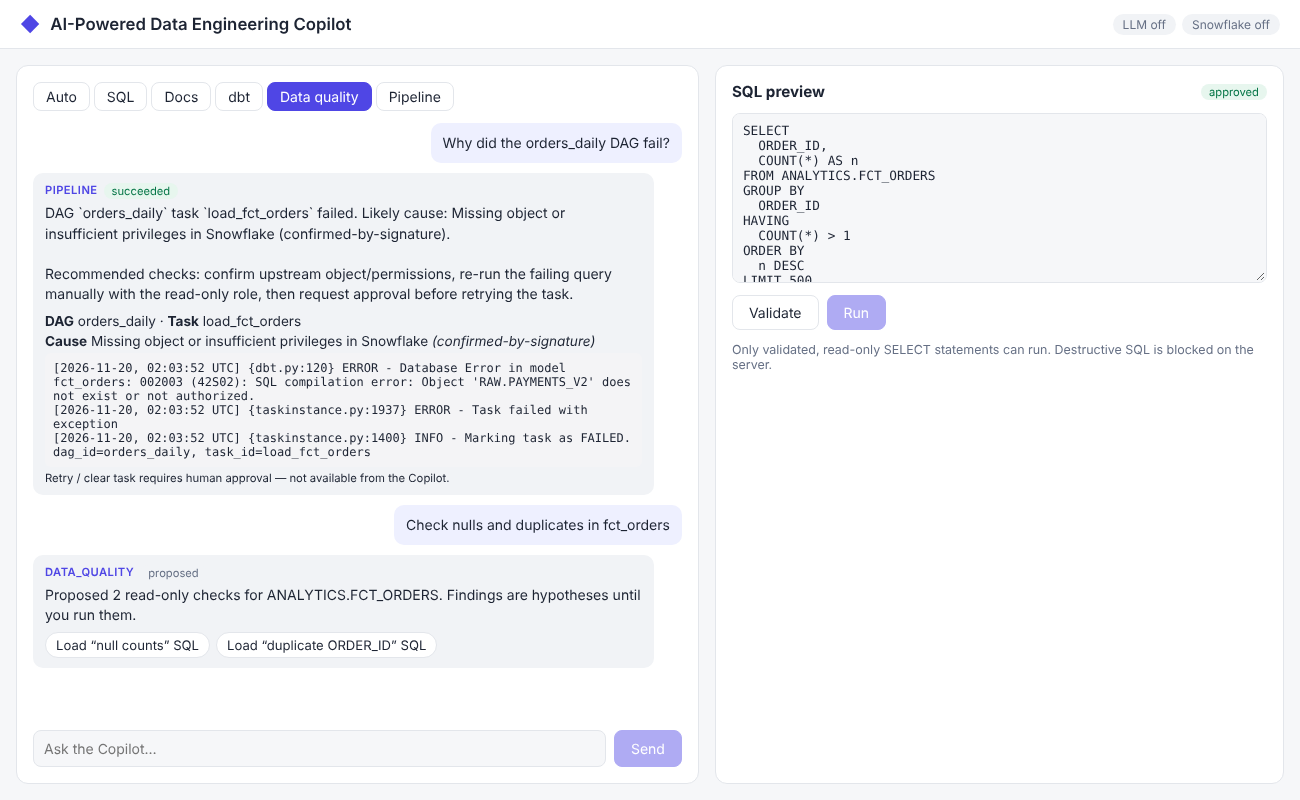
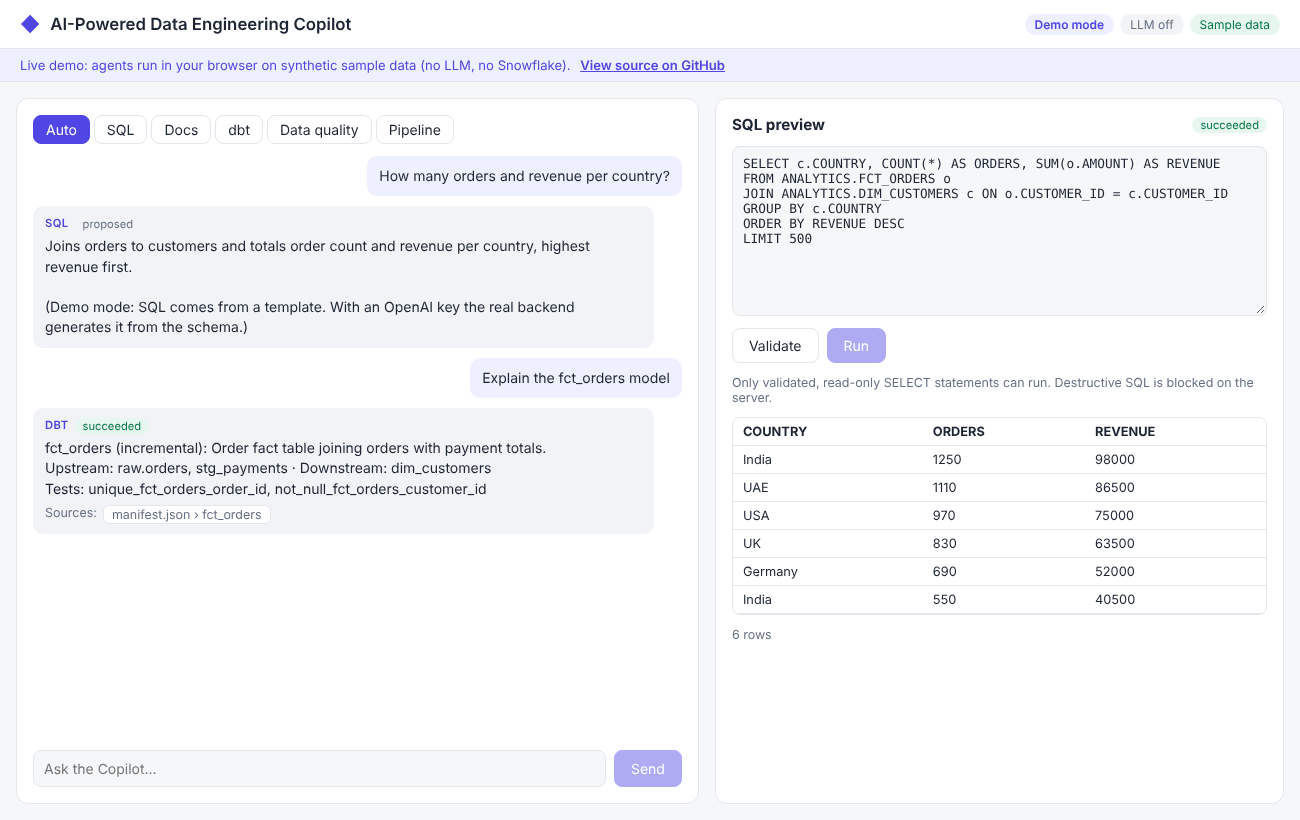
Add live demo mode and GitHub Pages deployment

diff --git a/frontend/src/app/core/demo-backend.ts b/frontend/src/app/core/demo-backend.ts
@@ -1,0 +1,224 @@
+/**
+ * DEMO MODE — an in-browser stand-in for the FastAPI backend.
+ *
+ * Used automatically when the app is hosted on GitHub Pages (or opened with ?demo=1),
+ * so people can click around without running Python. It mirrors the backend's
+ * offline behaviour on the same synthetic sample data. It is NOT the real backend:
+ * no LLM, no Snowflake, and "Run" returns generated sample rows.
+ */
+import { CopilotResponse, Health, Intent, QueryResult, SqlValidation } from './models';
+
+export function isDemoMode(): boolean {
+  if (typeof window === 'undefined') return false;
+  return window.location.hostname.endsWith('github.io') || new URLSearchParams(window.location.search).has('demo');
+}
+
+// ---------- sample data (same as /sample_data) ----------
+const SCHEMA: Record<string, string[]> = {
+  'ANALYTICS.FCT_ORDERS': ['ORDER_ID', 'CUSTOMER_ID', 'ORDER_DATE', 'STATUS', 'AMOUNT'],
+  'ANALYTICS.DIM_CUSTOMERS': ['CUSTOMER_ID', 'CUSTOMER_NAME', 'COUNTRY', 'CREATED_AT'],
+  'STAGING.STG_PAYMENTS': ['PAYMENT_ID', 'ORDER_ID', 'PAYMENT_METHOD', 'AMOUNT'],
+};
+
+const MODELS: Record<string, { desc: string; mat: string; up: string[]; down: string[]; tests: string[] }> = {
+  stg_payments: { desc: 'Cleans raw payments and converts cents to dollars.', mat: 'view', up: ['raw.payments'], down: ['fct_orders'], tests: [] },
+  fct_orders: { desc: 'Order fact table joining orders with payment totals.', mat: 'incremental', up: ['raw.orders', 'stg_payments'], down: ['dim_customers'], tests: ['unique_fct_orders_order_id', 'not_null_fct_orders_customer_id'] },
+  dim_customers: { desc: 'Customer dimension with first/last order dates.', mat: 'table', up: ['raw.customers', 'fct_orders'], down: [], tests: [] },
+};
+
+const DOCS: { source: string; section: string; text: string }[] = [
+  { source: 'orders_pipeline_runbook.md', section: 'Freshness expectations', text: 'ANALYTICS.FCT_ORDERS should contain orders up to the previous day by 03:00 UTC. If freshness is breached, check the load_fct_orders task first.' },
+  { source: 'orders_pipeline_runbook.md', section: 'Missing object errors', text: '"Object does not exist or not authorized" usually means an upstream source was renamed or the dbt role lost SELECT privileges. Confirm with the read-only role before retrying. Retrying or clearing tasks requires approval from the on-call data engineer.' },
+  { source: 'orders_pipeline_runbook.md', section: 'Incremental model behaviour', text: 'fct_orders is incremental on ORDER_DATE. A full refresh is only allowed in a maintenance window with approval from the data platform lead.' },
+  { source: 'data_quality_standards.md', section: 'Primary keys', text: 'Every fact and dimension table must have a unique, non-null primary key. ORDER_ID is the key of FCT_ORDERS; CUSTOMER_ID is the key of DIM_CUSTOMERS.' },
+  { source: 'data_quality_standards.md', section: 'Null thresholds', text: 'Foreign keys such as CUSTOMER_ID in FCT_ORDERS must have zero nulls. Descriptive columns may have up to 1% nulls.' },
+];
+
+export const SAMPLE_LOG = `[2026-11-20, 02:00:03 UTC] {taskinstance.py:1157} INFO - Dependencies all met for dag_id=orders_daily, task_id=load_fct_orders, run_id=scheduled__2026-11-19
+[2026-11-20, 02:00:04 UTC] {dbt.py:88} INFO - Running: dbt run --select fct_orders
+[2026-11-20, 02:03:41 UTC] {dbt.py:120} INFO - 1 of 1 START incremental model ANALYTICS.fct_orders
+[2026-11-20, 02:03:52 UTC] {dbt.py:120} ERROR - Database Error in model fct_orders: 002003 (42S02): SQL compilation error: Object 'RAW.PAYMENTS_V2' does not exist or not authorized.
+[2026-11-20, 02:03:52 UTC] {taskinstance.py:1937} ERROR - Task failed with exception
+[2026-11-20, 02:03:52 UTC] {taskinstance.py:1400} INFO - Marking task as FAILED. dag_id=orders_daily, task_id=load_fct_orders`;
+
+// ---------- agents ----------
+const RULES: [Intent, string[]][] = [
+  ['pipeline', ['airflow', 'dag', 'task failed', 'pipeline', 'retry', 'log']],
+  ['data_quality', ['null', 'duplicate', 'freshness', 'row count', 'data quality', 'dq ', 'referential']],
+  ['dbt', ['dbt', 'model', 'materialization', 'ref(', 'source(', 'manifest']],
+  ['sql', ['sql', 'query', 'how many', 'top ', 'total', 'revenue', 'count', 'average', 'sum of', 'list ']],
+  ['rag', ['what is', 'explain', 'document', 'runbook', 'how does', 'why']],
+];
+
+export function classify(message: string): Intent {
+  const text = ` ${message.toLowerCase()} `;
+  return RULES.find(([, kws]) => kws.some((k) => text.includes(k)))?.[0] ?? 'general';
+}
+
+const BLOCKED = /\b(insert|update|delete|merge|create|alter|drop|truncate|copy|call|grant|revoke)\b/i;
+
+export function validateSql(sql: string, maxRows = 500): SqlValidation {
+  const errors: string[] = [];
+  const trimmed = sql.trim().replace(/;\s*$/, '');
+  if (!trimmed) errors.push('SQL is empty.');
+  if (trimmed.includes(';')) errors.push('Exactly one statement is allowed.');
+  if (!/^\s*(select|with)\b/i.test(trimmed)) errors.push('Only read-only SELECT queries are allowed.');
+  const bad = trimmed.match(BLOCKED);
+  if (bad) errors.push(`Blocked operation detected: ${bad[1].toUpperCase()}.`);
+  const ctes = new Set([...trimmed.matchAll(/\b(\w+)\s+as\s*\(/gi)].map((m) => m[1].toUpperCase()));
+  const tables = [...new Set([...trimmed.matchAll(/\b(?:from|join)\s+([\w.]+)/gi)].map((m) => m[1].toUpperCase()))]
+    .filter((t) => !ctes.has(t));
+  for (const t of tables) {
+    if (!t.includes('.')) errors.push(`Table '${t}' must be schema-qualified.`);
+    else if (!SCHEMA[t]) errors.push(`Unknown table '${t}' (not found in schema metadata).`);
+  }
+  if (errors.length) return { is_valid: false, sql, errors, tables };
+  const limit = trimmed.match(/\blimit\s+(\d+)\s*$/i);
+  const out = limit ? (Number(limit[1]) > maxRows ? trimmed.replace(/\blimit\s+\d+\s*$/i, `LIMIT ${maxRows}`) : trimmed) : `${trimmed}\nLIMIT ${maxRows}`;
+  return { is_valid: true, sql: out, errors: [], tables };
+}
+
+function sqlAgent(message: string): CopilotResponse {
+  const m = message.toLowerCase();
+  let sql: string;
+  let answer: string;
+  if (m.includes('country')) {
+    sql = `SELECT c.COUNTRY, COUNT(*) AS ORDERS, SUM(o.AMOUNT) AS REVENUE
+FROM ANALYTICS.FCT_ORDERS o
+JOIN ANALYTICS.DIM_CUSTOMERS c ON o.CUSTOMER_ID = c.CUSTOMER_ID
+GROUP BY c.COUNTRY
+ORDER BY REVENUE DESC`;
+    answer = 'Joins orders to customers and totals order count and revenue per country, highest revenue first.';
+  } else if (m.includes('payment')) {
+    sql = `SELECT PAYMENT_METHOD, COUNT(*) AS PAYMENTS, SUM(AMOUNT) AS TOTAL
+FROM STAGING.STG_PAYMENTS
+GROUP BY PAYMENT_METHOD
+ORDER BY TOTAL DESC`;
+    answer = 'Totals payments by payment method.';
+  } else {
+    sql = `SELECT DATE_TRUNC('month', ORDER_DATE) AS MONTH, COUNT(*) AS ORDERS, SUM(AMOUNT) AS REVENUE
+FROM ANALYTICS.FCT_ORDERS
+GROUP BY 1
+ORDER BY 1 DESC`;
+    answer = 'Counts orders and revenue per month from the orders fact table.';
+  }
+  const v = validateSql(sql);
+  return {
+    intent: 'sql', agent: 'sql', status: 'proposed', sql: v.sql,
+    answer: `${answer}\n\n(Demo mode: SQL comes from a template. With an OpenAI key the real backend generates it from the schema.)`,
+    assumptions: 'Uses only tables in the sample schema; amounts are in USD.',
+    validation: { is_valid: v.is_valid, errors: v.errors, tables: v.tables },
+  };
+}
+
+function ragAgent(message: string): CopilotResponse {
+  const stop = new Set(['the', 'a', 'an', 'is', 'of', 'to', 'and', 'in', 'what', 'how', 'does', 'do', 'for', 'on', 'it', 'this', 'should', 'about']);
+  const tok = (s: string) => new Set((s.toLowerCase().match(/[a-z0-9_]+/g) ?? []).filter((w) => !stop.has(w) && w.length > 2));
+  const q = tok(message);
+  const hits = DOCS.map((d) => {
+    const dt = tok(`${d.section} ${d.text}`);
+    return { d, score: q.size ? [...q].filter((w) => dt.has(w)).length / q.size : 0 };
+  }).filter((h) => h.score >= 0.25).sort((a, b) => b.score - a.score).slice(0, 3);
+  if (!hits.length) {
+    return { intent: 'rag', agent: 'rag', status: 'succeeded', sources: [], answer: "I couldn't find this in the approved knowledge base, so I won't guess." };
+  }
+  return {
+    intent: 'rag', agent: 'rag', status: 'succeeded', answer: hits[0].d.text,
+    sources: hits.map((h) => ({ source: h.d.source, section: h.d.section, score: Math.round(h.score * 100) / 100 })),
+  };
+}
+
+function dbtAgent(message: string): CopilotResponse {
+  const words = new Set(message.toLowerCase().match(/[a-z0-9_]+/g) ?? []);
+  const name = Object.keys(MODELS).find((m) => words.has(m));
+  if (!name) {
+    return { intent: 'dbt', agent: 'dbt', status: 'failed', answer: `Which model? Available in the manifest: ${Object.keys(MODELS).join(', ')}` };
+  }
+  const mdl = MODELS[name];
+  return {
+    intent: 'dbt', agent: 'dbt', status: 'succeeded', sources: [{ source: 'manifest.json', section: name }],
+    answer: `${name} (${mdl.mat}): ${mdl.desc}\nUpstream: ${mdl.up.join(', ') || '—'} · Downstream: ${mdl.down.join(', ') || '—'}\nTests: ${mdl.tests.join(', ') || 'none'}`,
+  };
+}
+
+function dqAgent(message: string): CopilotResponse {
+  const text = message.toUpperCase();
+  const table = Object.keys(SCHEMA).find((t) => text.includes(t) || text.includes(t.split('.')[1]));
+  if (!table) {
+    return { intent: 'data_quality', agent: 'data_quality', status: 'failed', answer: `Which table should I check? Known tables: ${Object.keys(SCHEMA).join(', ')}` };
+  }
+  const cols = SCHEMA[table];
+  const key = cols.find((c) => c.endsWith('_ID'))!;
+  const checks = [
+    { check: 'null counts', sql: `SELECT COUNT(*) AS TOTAL_ROWS,\n  ${cols.map((c) => `COUNT_IF(${c} IS NULL) AS ${c}_NULLS`).join(',\n  ')}\nFROM ${table}` },
+    { check: `duplicate ${key}`, sql: `SELECT ${key}, COUNT(*) AS N\nFROM ${table}\nGROUP BY ${key}\nHAVING COUNT(*) > 1\nORDER BY N DESC` },
+  ].map((c) => { const v = validateSql(c.sql); return { ...c, sql: v.sql, valid: v.is_valid, errors: v.errors }; });
+  return {
+    intent: 'data_quality', agent: 'data_quality', status: 'proposed', checks, sql: checks[0].sql,
+    answer: `Proposed ${checks.length} read-only checks for ${table}. Findings are hypotheses until you run them.`,
+  };
+}
+
+function pipelineAgent(pasted: string | null): CopilotResponse {
+  // Demo convenience: fall back to the sample log so the example prompt works in one click.
+  const log = pasted || SAMPLE_LOG;
+  const sigs: [RegExp, string][] = [
+    [/object .* does not exist or not authorized/i, 'Missing object or insufficient privileges in Snowflake'],
+    [/timeout|timed out/i, 'Task or query timeout'],
+    [/connection (refused|reset)|could not connect/i, 'Network / connection failure to an upstream system'],
+    [/compilation error/i, 'dbt / SQL compilation error'],
+    [/out of memory|oom|killed/i, 'Worker ran out of memory'],
+  ];
+  const cause = sigs.find(([re]) => re.test(log))?.[1] ?? null;
+  const incident = {
+    dag_id: log.match(/dag_id=([\w\-.]+)/)?.[1] ?? null,
+    task_id: log.match(/task_id=([\w\-.]+)/)?.[1] ?? null,
+    evidence: log.split('\n').filter((l) => /\b(error|exception|failed|traceback)\b/i.test(l)).map((l) => l.trim()).slice(0, 8),
+    likely_cause: cause,
+    cause_status: cause ? 'confirmed-by-signature' : 'unknown',
+  };
+  return {
+    intent: 'pipeline', agent: 'pipeline', status: 'succeeded', incident, requires_approval: ['retry task', 'clear task'],
+    answer: `${pasted ? '' : '(No log pasted — using the sample orders_daily log.)\n\n'}DAG \`${incident.dag_id}\` task \`${incident.task_id}\` failed. Likely cause: ${cause ?? 'not identified from known signatures'} (${incident.cause_status}).\n\nRecommended checks: confirm the upstream object exists and the dbt role can SELECT it, re-run the failing query with the read-only role, then request approval before retrying the task.`,
+  };
+}
+
+export function demoHealth(): Health {
+  return { status: 'ok', llm_configured: false, snowflake_configured: true, demo: true };
+}
+
+export function demoChat(message: string, intent: Intent | null, log: string | null): CopilotResponse {
+  const i = intent ?? classify(message);
+  switch (i) {
+    case 'sql': return sqlAgent(message);
+    case 'rag': return ragAgent(message);
+    case 'dbt': return dbtAgent(message);
+    case 'data_quality': return dqAgent(message);
+    case 'pipeline': return pipelineAgent(log);
+    default:
+      return { intent: 'general', agent: 'general', status: 'succeeded', answer: "I can help with: SQL generation, documentation questions, dbt models, data quality checks, and Airflow incident diagnosis. Try: 'Explain the fct_orders model'." };
+  }
+}
+
+/** Generates deterministic sample rows for the columns a query selects. */
+export function demoRun(sql: string): QueryResult {
+  const v = validateSql(sql);
+  if (!v.is_valid) throw new Error(v.errors.join('; '));
+  const select = v.sql.match(/select\s+([\s\S]+?)\s+from\s/i)?.[1] ?? '*';
+  const table = v.tables[0];
+  const columns = select.trim() === '*'
+    ? SCHEMA[table]
+    : select.split(/,(?![^(]*\))/).map((c) => (c.match(/\bas\s+(\w+)\s*$/i)?.[1] ?? c.trim().split('.').pop()!).toUpperCase());
+  const countries = ['India', 'UAE', 'USA', 'UK', 'Germany'];
+  const methods = ['credit_card', 'upi', 'bank_transfer', 'gift_card'];
+  const rows = Array.from({ length: 5 }, (_, r) => Object.fromEntries(columns.map((c, k) => {
+    if (c.includes('COUNTRY')) return [c, countries[r % countries.length]];
+    if (c.includes('METHOD')) return [c, methods[r % methods.length]];
+    if (c.includes('MONTH') || c.includes('DATE')) return [c, `2026-${String(11 - r).padStart(2, '0')}-01`];
+    if (c.includes('NULLS') || c === 'N') return [c, c === 'N' ? 2 : (r + k) % 3 === 0 ? 0 : r];
+    if (c.includes('REVENUE') || c.includes('AMOUNT') || c === 'TOTAL') return [c, Math.round((98_000 - r * 11_500) * 100) / 100];
+    if (c.endsWith('_ID')) return [c, 10_040 + r * 7];
+    return [c, 1_250 - r * 140];
+  })));
+  return { status: 'succeeded', columns, rows, sql: v.sql };
+}

diff --git a/frontend/src/app/core/demo-backend.spec.ts b/frontend/src/app/core/demo-backend.spec.ts
@@ -1,0 +1,27 @@
+import { classify, demoChat, demoRun, validateSql } from './demo-backend';
+
+describe('demo backend', () => {
+  it('routes intents like the Python router', () => {
+    expect(classify('Why did the orders_daily DAG fail?')).toBe('pipeline');
+    expect(classify('Check duplicates in fct_orders')).toBe('data_quality');
+    expect(classify('Explain the dbt model fct_orders')).toBe('dbt');
+    expect(classify('How many orders per country?')).toBe('sql');
+  });
+
+  it('blocks destructive SQL and unknown tables', () => {
+    expect(validateSql('drop table analytics.fct_orders').is_valid).toBeFalse();
+    expect(validateSql('select 1 from analytics.fct_orders; delete from analytics.fct_orders').is_valid).toBeFalse();
+    expect(validateSql('select * from analytics.secret').is_valid).toBeFalse();
+    expect(validateSql('select * from analytics.fct_orders').sql).toContain('LIMIT 500');
+  });
+
+  it('answers each agent offline', () => {
+    expect(demoChat('Explain the fct_orders model', null, null).answer).toContain('incremental');
+    expect(demoChat('Explain what to do about missing object errors', null, null).sources?.[0].section).toBe('Missing object errors');
+    expect(demoChat('Why did the orders_daily DAG fail?', null, null).incident?.task_id).toBe('load_fct_orders');
+    const dq = demoChat('Check nulls and duplicates in fct_orders', null, null);
+    expect(dq.checks?.every((c) => c.valid)).toBeTrue();
+    const sql = demoChat('How many orders and revenue per country?', null, null);
+    expect(demoRun(sql.sql!).columns).toEqual(['COUNTRY', 'ORDERS', 'REVENUE']);
+  });
+});

diff --git a/frontend/src/app/core/demo.interceptor.ts b/frontend/src/app/core/demo.interceptor.ts
@@ -1,0 +1,20 @@
+import { HttpErrorResponse, HttpInterceptorFn, HttpResponse } from '@angular/common/http';
+import { delay, of, throwError } from 'rxjs';
+import { SAMPLE_LOG, demoChat, demoHealth, demoRun, isDemoMode, validateSql } from './demo-backend';
+
+/** In demo mode, answers /api/* in the browser instead of calling FastAPI. */
+export const demoInterceptor: HttpInterceptorFn = (req, next) => {
+  if (!isDemoMode() || !req.url.startsWith('/api')) return next(req);
+  const body = req.body as Record<string, any> | null;
+  const ok = (data: unknown) => of(new HttpResponse({ status: 200, body: data })).pipe(delay(350));
+  switch (req.url) {
+    case '/api/health': return ok(demoHealth());
+    case '/api/chat': return ok(demoChat(body?.['message'] ?? '', body?.['intent'] ?? null, body?.['log'] ?? null));
+    case '/api/sql/validate': return ok(validateSql(body?.['sql'] ?? ''));
+    case '/api/samples/logs': return ok({ 'orders_daily_failed.log': SAMPLE_LOG });
+    case '/api/sql/run':
+      try { return ok(demoRun(body?.['sql'] ?? '')); }
+      catch (e) { return throwError(() => new HttpErrorResponse({ status: 400, error: { detail: (e as Error).message }, url: req.url })); }
+    default: return throwError(() => new HttpErrorResponse({ status: 404, url: req.url }));
+  }
+};

diff --git a/frontend/src/app/app.component.html b/frontend/src/app/app.component.html
@@ -5,13 +5,21 @@
   </div>
   <div class="health">
     @if (health(); as h) {
+      @if (h.demo) { <span class="pill demo" title="Runs in your browser on synthetic sample data">Demo mode</span> }
       <span class="pill" [class.ok]="h.llm_configured">LLM {{ h.llm_configured ? 'on' : 'off' }}</span>
-      <span class="pill" [class.ok]="h.snowflake_configured">Snowflake {{ h.snowflake_configured ? 'on' : 'off' }}</span>
+      <span class="pill" [class.ok]="h.snowflake_configured">{{ h.demo ? 'Sample data' : 'Snowflake ' + (h.snowflake_configured ? 'on' : 'off') }}</span>
     } @else {
       <span class="pill bad">Backend offline</span>
     }
   </div>
 </header>
+
+@if (health()?.demo) {
+  <div class="banner">
+    Live demo: agents run in your browser on synthetic sample data (no LLM, no Snowflake).
+    <a href="https://github.com/sureshnarayananankumar/ai-powered-data-engineering-copilot" target="_blank" rel="noopener">View source on GitHub</a>
+  </div>
+}
 
 <main class="layout">
   <!-- Chat -->

diff --git a/frontend/src/app/app.config.ts b/frontend/src/app/app.config.ts
@@ -1,9 +1,10 @@
 import { ApplicationConfig, provideZoneChangeDetection } from '@angular/core';
-import { provideHttpClient, withFetch } from '@angular/common/http';
+import { provideHttpClient, withFetch, withInterceptors } from '@angular/common/http';
+import { demoInterceptor } from './core/demo.interceptor';
 
 export const appConfig: ApplicationConfig = {
   providers: [
     provideZoneChangeDetection({ eventCoalescing: true }),
-    provideHttpClient(withFetch()),
+    provideHttpClient(withFetch(), withInterceptors([demoInterceptor])),
   ],
 };

diff --git a/frontend/src/app/app.component.scss b/frontend/src/app/app.component.scss
@@ -12,6 +12,11 @@
   font-size: .75rem; padding: 3px 10px; border-radius: 999px; background: var(--muted-bg); color: var(--muted);
   &.ok { background: var(--ok-bg); color: var(--ok); }
   &.bad { background: var(--bad-bg); color: var(--bad); }
+  &.demo { background: var(--accent-bg); color: var(--accent); font-weight: 600; }
+}
+.banner {
+  padding: 8px 20px; font-size: .82rem; background: var(--accent-bg); color: var(--accent); border-bottom: 1px solid var(--line);
+  a { color: inherit; font-weight: 600; margin-left: 6px; }
 }
 
 .layout {

diff --git a/frontend/src/app/core/models.ts b/frontend/src/app/core/models.ts
@@ -26,7 +26,7 @@ export interface CopilotResponse {
 
 export interface ChatTurn { role: 'user' | 'assistant'; text: string; response?: CopilotResponse; }
 
-export interface Health { status: string; llm_configured: boolean; snowflake_configured: boolean; }
+export interface Health { status: string; llm_configured: boolean; snowflake_configured: boolean; demo?: boolean; }
 
 export interface SqlValidation { is_valid: boolean; sql: string; errors: string[]; tables: string[]; }
 

diff --git a/frontend/src/app/app.component.ts b/frontend/src/app/app.component.ts
@@ -27,8 +27,9 @@ export class AppComponent implements OnInit {
   readonly examples = [
     'Explain the fct_orders model',
     'Check nulls and duplicates in fct_orders',
-    'What should I do about missing object errors?',
+    'Explain what to do about missing object errors',
     'Why did the orders_daily DAG fail?',
+    'How many orders and revenue per country?',
   ];
 
   health = signal<Health | null>(null);

diff --git a/README.md b/README.md
@@ -2,6 +2,10 @@
 
 An agentic GenAI assistant for data engineers. Ask in plain English and get grounded, explainable help across **Snowflake SQL**, **dbt models**, **data quality**, **documentation (RAG)** and **Airflow incident diagnosis** — with safety guardrails so nothing changes production without a human.
 
+### ▶ [Live demo](https://sureshnarayananankumar.github.io/ai-powered-data-engineering-copilot/)
+
+The live demo runs the agents in your browser on synthetic sample data (no LLM or Snowflake needed). Try the example prompts, the Pipeline tab, and SQL → Validate → Run.
+
 ![Copilot UI](docs/screenshot.png)
 
 **Stack:** Angular 19 · FastAPI · LangGraph · OpenAI · sqlglot SQL guard · Snowflake · dbt · Airflow · Docker · GitHub Actions
@@ -30,7 +34,8 @@ LangGraph router ──► SQL Agent ─────────► Snowflake (r
 | Data quality agent: generates validated read-only null & duplicate SQL | ✅ tested |
 | RAG agent: answers with source file + section, refuses when nothing relevant is found | ✅ tested |
 | Pipeline agent: extracts DAG/task, error evidence, likely cause (labelled confirmed/unknown); retries require human approval | ✅ tested on sample log |
-| Angular UI: chat, mode tabs, sources, incident card, SQL preview → Validate → Run, results table, status chips | ✅ builds, 3 unit tests |
+| Angular UI: chat, mode tabs, sources, incident card, SQL preview → Validate → Run, results table, status chips | ✅ builds, 6 unit tests |
+| Live demo on GitHub Pages (in-browser demo backend via Angular HTTP interceptor) | ✅ |
 | SQL generation with OpenAI | ⚙ needs `OPENAI_API_KEY` |
 | Query execution in Snowflake | ⚙ needs Snowflake credentials (Run stays disabled until configured) |
 
@@ -57,7 +62,8 @@ API docs: http://localhost:8000/docs
 cd frontend
 npm install
 npm start                        # http://localhost:4200, proxies /api to :8000
-npx ng test --watch=false        # expected: 3 SUCCESS
+npx ng test --watch=false        # expected: 6 SUCCESS
+# Demo mode locally (no backend needed): http://localhost:4200/?demo=1
 ```
 
 ### Or with Docker
